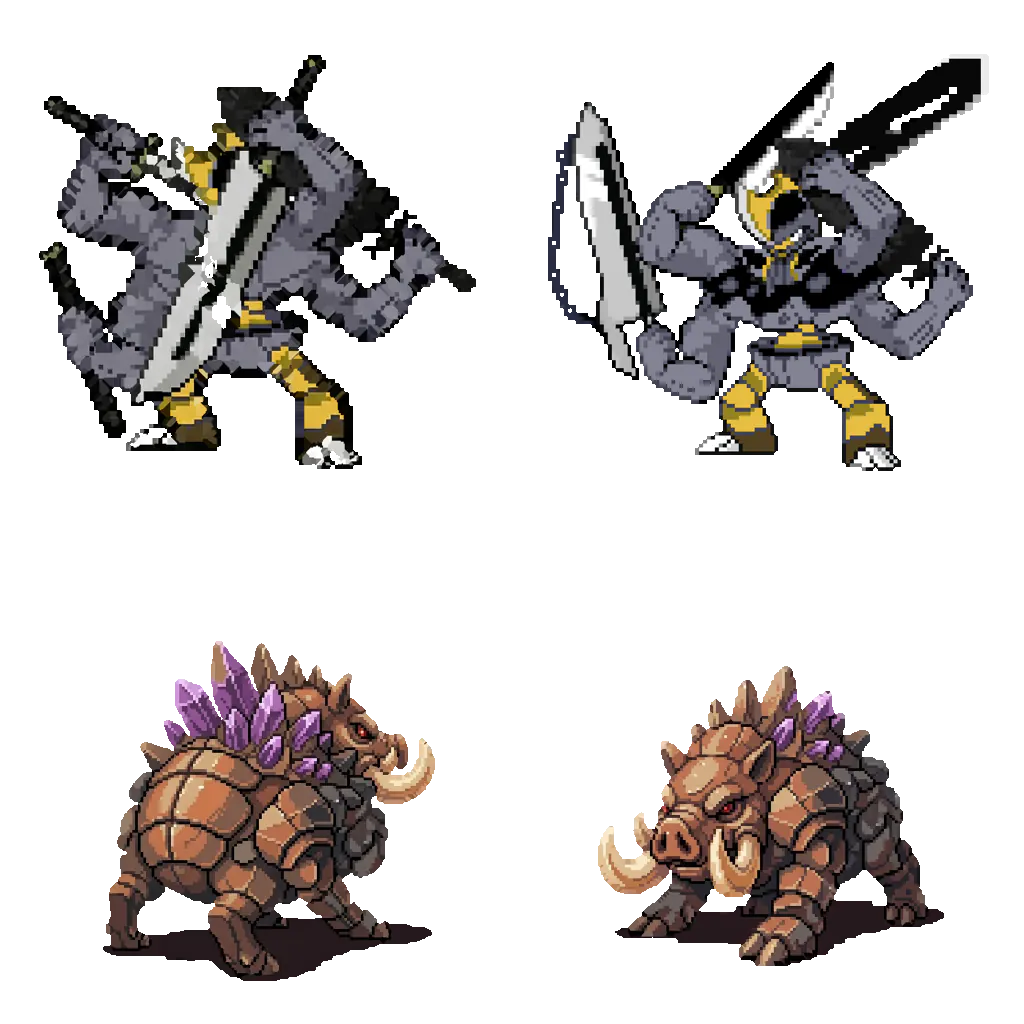
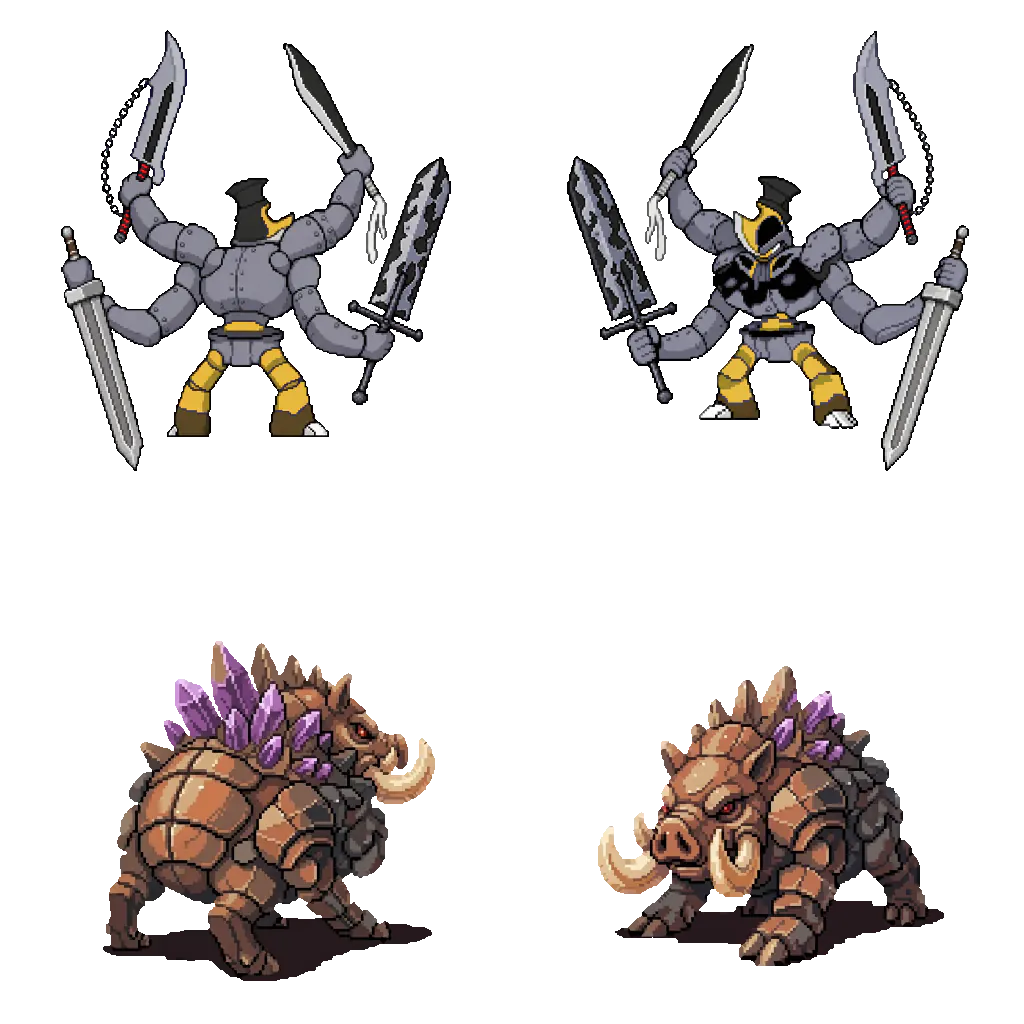
sprites: Acier redrawn with one sword in each of its four arms
New gpt-image-2 front and back (Shikai and true Bankai Zangetsu, Asta's
Demon-Slayer Sword, Guts' Dragon Slayer), keyed to binary alpha. Only
a-039 re-encoded; 54.89 MB at the top rung. Thumbnail, Heartsync portrait
and shiny palette regenerated.

Changed region(s): [[0.5312, 0.0312, 0.9688, 0.4688], [0.0312, 0.0312, 0.4688, 0.4688]]

diff --git a/packages/content/src/data/shinyDerived.ts b/packages/content/src/data/shinyDerived.ts
@@ -2,7 +2,7 @@
 import type { VariantPalette } from '../types';
 
 export const SHINY_DERIVED: Readonly<Record<string, VariantPalette>> = {
-  acier: { hue: -70, saturation: 1.6, lightness: 0.85 }, // rose from 45°, chroma 0.07, value 0.38
+  acier: { hue: -67, saturation: 1.6, lightness: 0.85 }, // rose from 42°, chroma 0.06, value 0.41
   alloylark: { hue: -98, saturation: 1.05, lightness: 1 }, // magenta from 40°, chroma 0.14, value 0.48
   ampmite: { hue: -106, saturation: 1.05, lightness: 1 }, // magenta from 48°, chroma 0.27, value 0.46
   astaroth: { hue: 165, saturation: 1.6, lightness: 1.3 }, // jade from 347°, chroma 0.05, value 0.15

diff --git a/tools/sprite-pipeline/README.md b/tools/sprite-pipeline/README.md
@@ -123,6 +123,7 @@ With soft alpha the bottom rung was 47.3 MB, over budget; the spec's 32 MB estim
 2026-10-27: every sprite rect carries `bodyV`, the share of its 1024² cell the creature fills at the atlas's binary alpha (`bodyVOf`; a meta cached before then is measured from its cached albedo). The renderer sizes the card by it so a creature stands exactly its species' `heightM`. The rects of the shipped build were backfilled from the atlases, no atlas changed; the manifest grew 10,075 B, so the build is **54.14 MB** (0.37 MB under the ceiling).
 
 2026-10-27: `astaroth(back).webp` is new art from the user's second video (1280x720, 24 fps, 10 s, flat grey (54, 58, 60) with a neutral (34, 35, 38) ground shadow): frames 48 to 120 sampled every third frame (8 fps, 25 pages of 125 ms), the loop picked where the last frame best meets the first (seam difference 2.17 against a 3.40 mean step, before the head turn); each frame keyed by a border flood over neutral greys of luminance 29 to 72 (chroma within 10, blue not below red, so the red-leaning blacks stay), enclosed grey pockets of 700 px or more cleared, a two-pass rim peel of grey blends, only the body and pieces within 40 px of it kept (the sword's smoke, not the video noise), binary alpha, mirrored so it faces right; one shared crop (1132x608), animated lossless WebP looping forever. `frame-select.json` shows page 21, the widest. The anim set stays at its q80 / q80 rung, **25.82 MB** of 26.21; the static build **54.15 MB**.
+2026-11-03: `acier(front)` and `acier(back)` are new gpt-image-2 art (medium, the user's key; prompts in `.design/imagegen/concepts/acier-swords/`): four arms, one sword in each, keyed by `scripts/key-forms.ts --src <dir>` with no override and delivered as 1024² binary alpha. Only `a-039` re-encoded, every other atlas byte-identical; the build is 204 entries / 105 atlases, **54.89 MB** (54 891 304 B, top rung, albedo q88 / normal q92, 0.68 MB under the ceiling), 0 actionable flags, the anim set unchanged. Its portrait and shiny palette were regenerated.
 
 `packages/client/public/creatures/` after the 2026-10-06 build (`PIPELINE_VERSION` 6, `SPRITE_STAGE_VERSION` 4: atlases composed from the true-colour cache), with the 2026-09-25 build (`PIPELINE_VERSION` 5, composed from the palette cache) for comparison:
 

diff --git a/.design/imagegen/concepts/acier-swords/NOTES.md b/.design/imagegen/concepts/acier-swords/NOTES.md
@@ -1,0 +1,16 @@
+# Acier, four swords (2026-11-03)
+
+Acier's front and back redrawn so each of its four arms holds one sword: Ichigo's Shikai Zangetsu, his true Bankai
+Zangetsu, Asta's Demon-Slayer Sword and Guts' Dragon Slayer. gpt-image-2, medium, the user's key, five calls (about
+$0.47).
+
+- `front.txt`, `front-2.txt`: first tries, swords described in words (then by name). Not used.
+- `front-3.txt`: image 1 the old front on magenta (`../acier-majin/acier-front-ref.png`), image 2 a sheet of the
+  user's four sword pictures. Swords right, but a stray fifth arm and a floating upper arm.
+- `front-4.txt` -> `front-4.png` (shipped): image 1 the front-3 draft, image 2 the old front, image 3 the sword sheet,
+  with a shoulder-by-shoulder anatomy list.
+- `back-1.txt` -> `back-1.png` (shipped): image 1 front-4, image 2 the old back (`../acier-majin/acier-back-ref.png`),
+  image 3 the sword sheet.
+
+The drafts and the sword sheet (third-party pictures) stay in `assets-src/imagegen/acier-swords/` (gitignored), with
+the old sources under `old/`. Keyed by `scripts/key-forms.ts --src <dir>` with no override.
